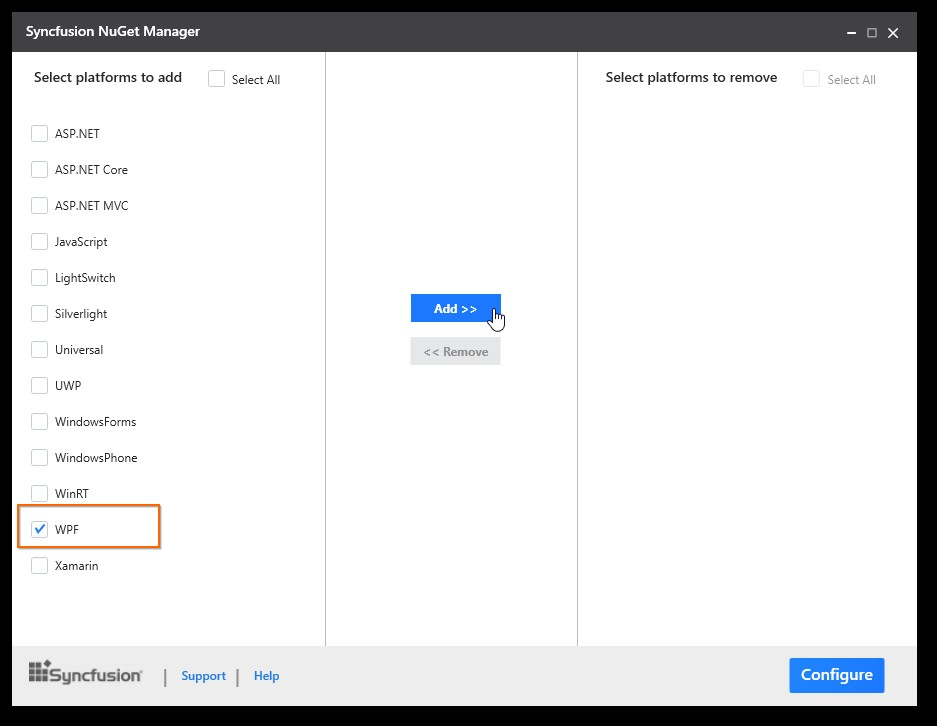
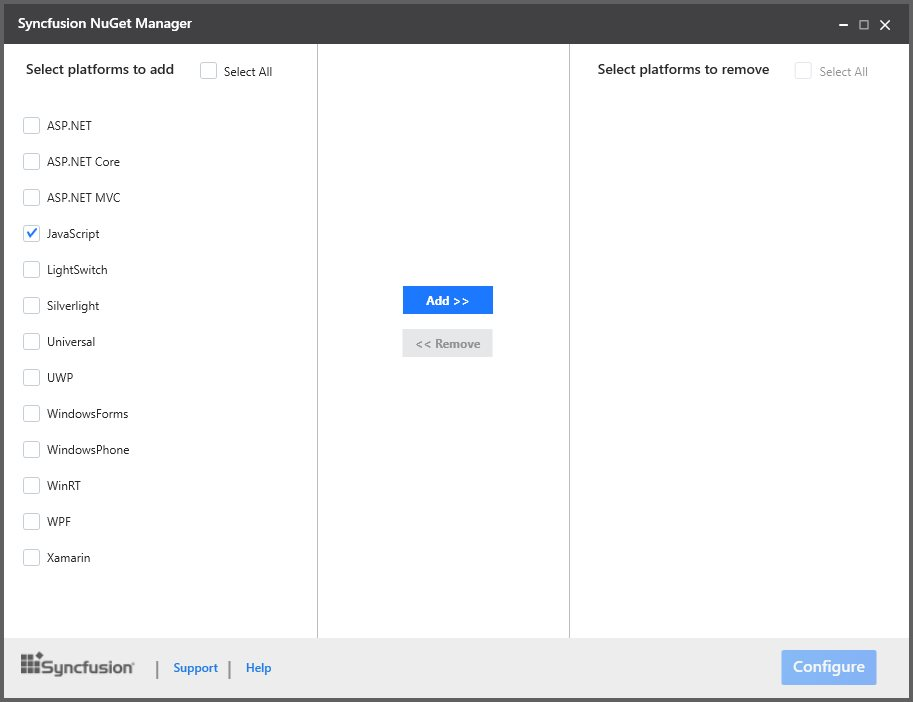
EXT-2153 Modified Syncfusion Nuget Manager Screenshot in NuGet Configuration (JavaScript)

Changed region(s): [[0.0, 0.0, 1.0, 1.0], [0.4294, 0.3889, 0.552, 0.4487], [0.4294, 0.4786, 0.552, 0.5085]]

diff --git a/js/Installation-and-Deployment.md b/js/Installation-and-Deployment.md
@@ -63,7 +63,7 @@ The following steps help you configure Syncfusion NuGet Packages with a URL.
 1. **Syncfusion NuGet Manager** is allows you to **add** the Syncfusion NuGet sources (for available platforms) to NuGet Package Manager. Download the [Syncfusion NuGet Manager](http://www.syncfusion.com/downloads/support/directtrac/general/ze/SyncfusionNugetManager-1610952973.zip) utility.
 2. Extract zip file and run the SyncfusionNuGetManager.exe
 3. Syncfusion NuGet Manager Window will be opened.
-4. Select the platform **WPF** (or required platform) from **“Select platforms to add”** (Left side of the window) column and click **Add>>** button. Then click **Configure** button.
+4. Select the platform **JavaScript** from **“Select platforms to add”** (Left side of the window) column and click **Add>>** button. Then click **Configure** button.
 
    ![](Installation-and-Deployment_images/Syncfusion_NuGet_Manager_img1.jpg)
 
